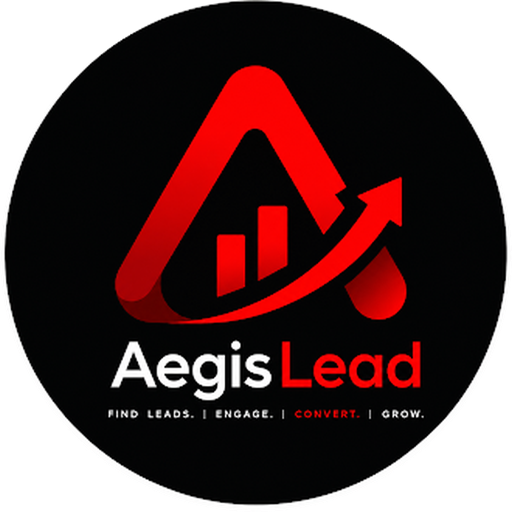
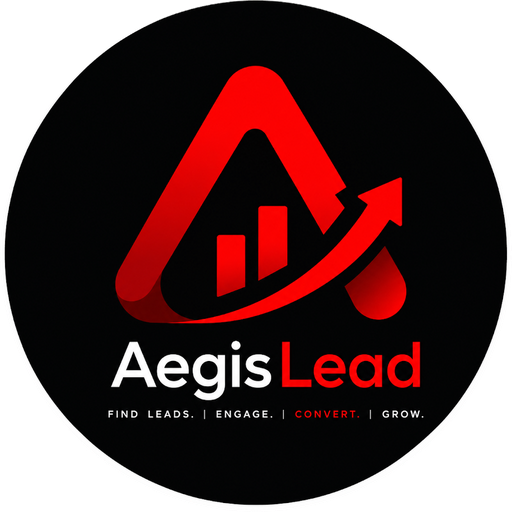
Use the real uncropped AegisLead lockup
The uncropped artwork arrived, so replace the stand-in. Every asset is
now cut from the supplied originals rather than approximated.

The lockup is the full 1748x900 original, trimmed to its content and cut
out onto transparency (1200x271), so <BrandMark variant="lockup"> goes
back to rendering the artwork as one image instead of composing it from
the mark plus live text. That composition was only ever a workaround for
the cropped source; this reverts it.

Adds a dark-surface lockup, since the artwork's wordmark and tagline are
near-black and all but vanish on a dark background -- the same flaw the
old approximation had. It recolours only the text, leaving the red mark
untouched, matching how the circular badge treats it. Exposed as
<BrandMark onDark>; both current call sites are on light surfaces.

Icon, mark and badge are re-cut from the higher-resolution originals:
the icon tile from a square crop (the content box is 744x760, so cropping
to it directly would have distorted it), the mark from the lockup's mark
region, and the badge circle-masked.

diff --git a/frontend/src/components/BrandMark.tsx b/frontend/src/components/BrandMark.tsx
@@ -1,7 +1,7 @@
 import React from 'react';
 import Image from 'next/image';
 import { cn } from '@/lib/utils';
-import { BRAND_LOGO, BRAND_NAME, BRAND_TAGLINE } from '@/lib/brand';
+import { BRAND_LOGO, BRAND_LOGO_RATIO, BRAND_NAME, BRAND_TAGLINE } from '@/lib/brand';
 
 interface BrandMarkProps {
   /** Portal label shown under the wordmark (e.g. "Client Portal", "Guard Portal"). */
@@ -11,17 +11,19 @@ interface BrandMarkProps {
   showWordmark?: boolean;
   /**
    * `icon` pairs the square mark with live text (the default, and what the
-   * portal shells use so `subtitle` can sit under it). `lockup` is the full
-   * horizontal logo - mark, wordmark and tagline - for auth screens and the
-   * admin sidebar.
-   *
-   * The lockup is composed here rather than loaded as one image: the supplied
-   * lockup artwork was cropped, so we build it from the intact mark plus live
-   * text instead of shipping a redrawn approximation. See `@/lib/brand`.
+   * portal shells use so `subtitle` can sit under it). `lockup` renders the
+   * full supplied horizontal logo artwork - mark, wordmark and tagline baked
+   * into one image - for auth screens and the admin sidebar, where it should
+   * match the brand asset exactly rather than be re-created in HTML.
    */
   variant?: 'icon' | 'lockup';
   /** Rendered width in px for `variant="lockup"`. Height follows the artwork. */
   lockupWidth?: number;
+  /**
+   * Use the light-on-dark lockup. The default artwork has a near-black
+   * wordmark and tagline, which all but vanish on a dark surface.
+   */
+  onDark?: boolean;
   className?: string;
 }
 
@@ -31,24 +33,6 @@ const wordClass = {
   md: 'text-lg',
   lg: 'text-2xl',
 } as const;
-
-/** The tagline as it reads in the artwork: dark, with "Convert." in brand red. */
-function Tagline({ className, style }: { className?: string; style?: React.CSSProperties }) {
-  return (
-    <span
-      className={cn(
-        'block whitespace-nowrap font-semibold uppercase leading-none text-foreground/70',
-        className,
-      )}
-      style={{ letterSpacing: '0.12em', ...style }}
-    >
-      Find Leads. <span className="text-foreground/25">|</span> Engage.{' '}
-      <span className="text-foreground/25">|</span>{' '}
-      <span className="text-primary">Convert.</span>{' '}
-      <span className="text-foreground/25">|</span> Grow.
-    </span>
-  );
-}
 
 /**
  * The single AegisLead brand lockup. Used by the Admin/Client/Guard shells and
@@ -60,7 +44,7 @@ function Tagline({ className, style }: { className?: string; style?: React.CSSPr
  * Renders the official AegisLead mark (red triangular icon on a transparent
  * background) so it drops cleanly onto the light `bg-card`/`bg-background`
  * surfaces every portal shell uses - never stretched or cropped, since the
- * artwork is intrinsically square and only ever scaled uniformly. Asset paths
+ * artwork is only ever scaled by width using its intrinsic ratio. Asset paths
  * live in `@/lib/brand` so they are never hardcoded at call sites.
  */
 export function BrandMark({
@@ -69,49 +53,19 @@ export function BrandMark({
   showWordmark = true,
   variant = 'icon',
   lockupWidth = 240,
+  onDark = false,
   className,
 }: BrandMarkProps) {
   if (variant === 'lockup') {
-    // Proportions measured off the supplied artwork, where the full lockup is
-    // ~455px wide: a 73px wordmark cap-height (~0.16 of the width), a ~20px
-    // tagline (~0.045) and a square mark about the height of the two stacked.
-    const markPx = Math.round(lockupWidth * 0.185);
     return (
-      <span
-        className={cn('flex min-w-0 items-center gap-[0.5em]', className)}
-        // `width` is the design size; callers that pass a width class (e.g.
-        // the sidebar's `w-full`) override it, and the children scale from
-        // `lockupWidth` either way.
-        style={{ maxWidth: lockupWidth }}
-        aria-label={`${BRAND_NAME} — ${BRAND_TAGLINE}`}
-        role="img"
-      >
-        <Image
-          src={BRAND_LOGO.mark}
-          alt=""
-          width={markPx}
-          height={markPx}
-          priority
-          className="shrink-0"
-        />
-        <span className="min-w-0">
-          <span
-            className="block font-extrabold leading-none tracking-tight text-foreground"
-            style={{ fontSize: Math.round(lockupWidth * 0.148) }}
-          >
-            Aegis<span className="text-primary">Lead</span>
-          </span>
-          {/* Below ~190px the tagline can no longer render at a legible size
-              without out-running the wordmark it is meant to sit under, so the
-              lockup drops to mark + wordmark rather than overflowing. */}
-          {lockupWidth >= 190 && (
-            <Tagline
-              className="mt-[0.35em]"
-              style={{ fontSize: Math.round(lockupWidth * 0.0275) }}
-            />
-          )}
-        </span>
-      </span>
+      <Image
+        src={onDark ? BRAND_LOGO.dark : BRAND_LOGO.light}
+        alt={`${BRAND_NAME} — ${BRAND_TAGLINE}`}
+        width={lockupWidth}
+        height={Math.round(lockupWidth / BRAND_LOGO_RATIO.lockup)}
+        priority
+        className={cn('h-auto max-w-full object-contain', className)}
+      />
     );
   }
 

diff --git a/frontend/src/lib/brand.ts b/frontend/src/lib/brand.ts
@@ -10,18 +10,17 @@ export const BRAND_NAME = 'AegisLead';
 export const BRAND_TAGLINE = 'Find Leads. Engage. Convert. Grow.';
 
 /**
- * Derived from the supplied brand artwork. The app-icon tile was delivered
- * intact, so `mark` is its glyph lifted onto transparency and `icon` is the
- * tile itself; `badge` is the supplied circular lockup.
- *
- * There is deliberately no full horizontal lockup image: the only copy of it
- * we were given was cropped (both the triangle mark and the end of the
- * wordmark/tagline were cut off), so the lockup is composed at render time
- * from `mark` + live text instead of shipping a redrawn approximation. If the
- * uncropped original ever arrives, add it here and simplify <BrandMark>.
+ * The supplied brand artwork, as delivered. These are the real files, cut out
+ * onto transparency so they sit on any surface - do not redraw them. If a
+ * vector original ever arrives, swap these files and update BRAND_LOGO_RATIO
+ * to match its intrinsic size.
  */
 export const BRAND_LOGO = {
-  /** Icon glyph only, transparent background - pairs with text, any surface. */
+  /** Full horizontal lockup (mark + wordmark + tagline), dark text for light backgrounds. */
+  light: '/brand/aegislead-logo-light.png',
+  /** The same lockup with the wordmark and tagline in white, for dark backgrounds. */
+  dark: '/brand/aegislead-logo-dark.png',
+  /** Icon glyph only, transparent background - pairs with live text, any surface. */
   mark: '/brand/aegislead-mark.png',
   /** The app-icon tile (dark rounded square), for avatars and tiles. */
   icon: '/brand/aegislead-icon.png',
@@ -32,9 +31,11 @@ export const BRAND_LOGO = {
 /**
  * Intrinsic aspect ratios, so callers can size by width without distortion.
  * These are the artwork's real pixel dimensions: get them wrong and the logo
- * is stretched.
+ * is stretched, since BrandMark derives height from width using these.
  */
 export const BRAND_LOGO_RATIO = {
+  /** Lockup artwork is 1200x271. */
+  lockup: 1200 / 271,
   /** Mark, icon tile and badge artwork are all square. */
   mark: 1,
   icon: 1,

diff --git a/frontend/src/components/Sidebar.tsx b/frontend/src/components/Sidebar.tsx
@@ -147,7 +147,7 @@ export default function Sidebar({ isOpen = false, onClose, collapsed = false, on
           ) : (
             <BrandMark
               variant="lockup"
-              lockupWidth={220}
+              lockupWidth={208}
               className="mb-1.5 h-auto w-full"
             />
           )}
